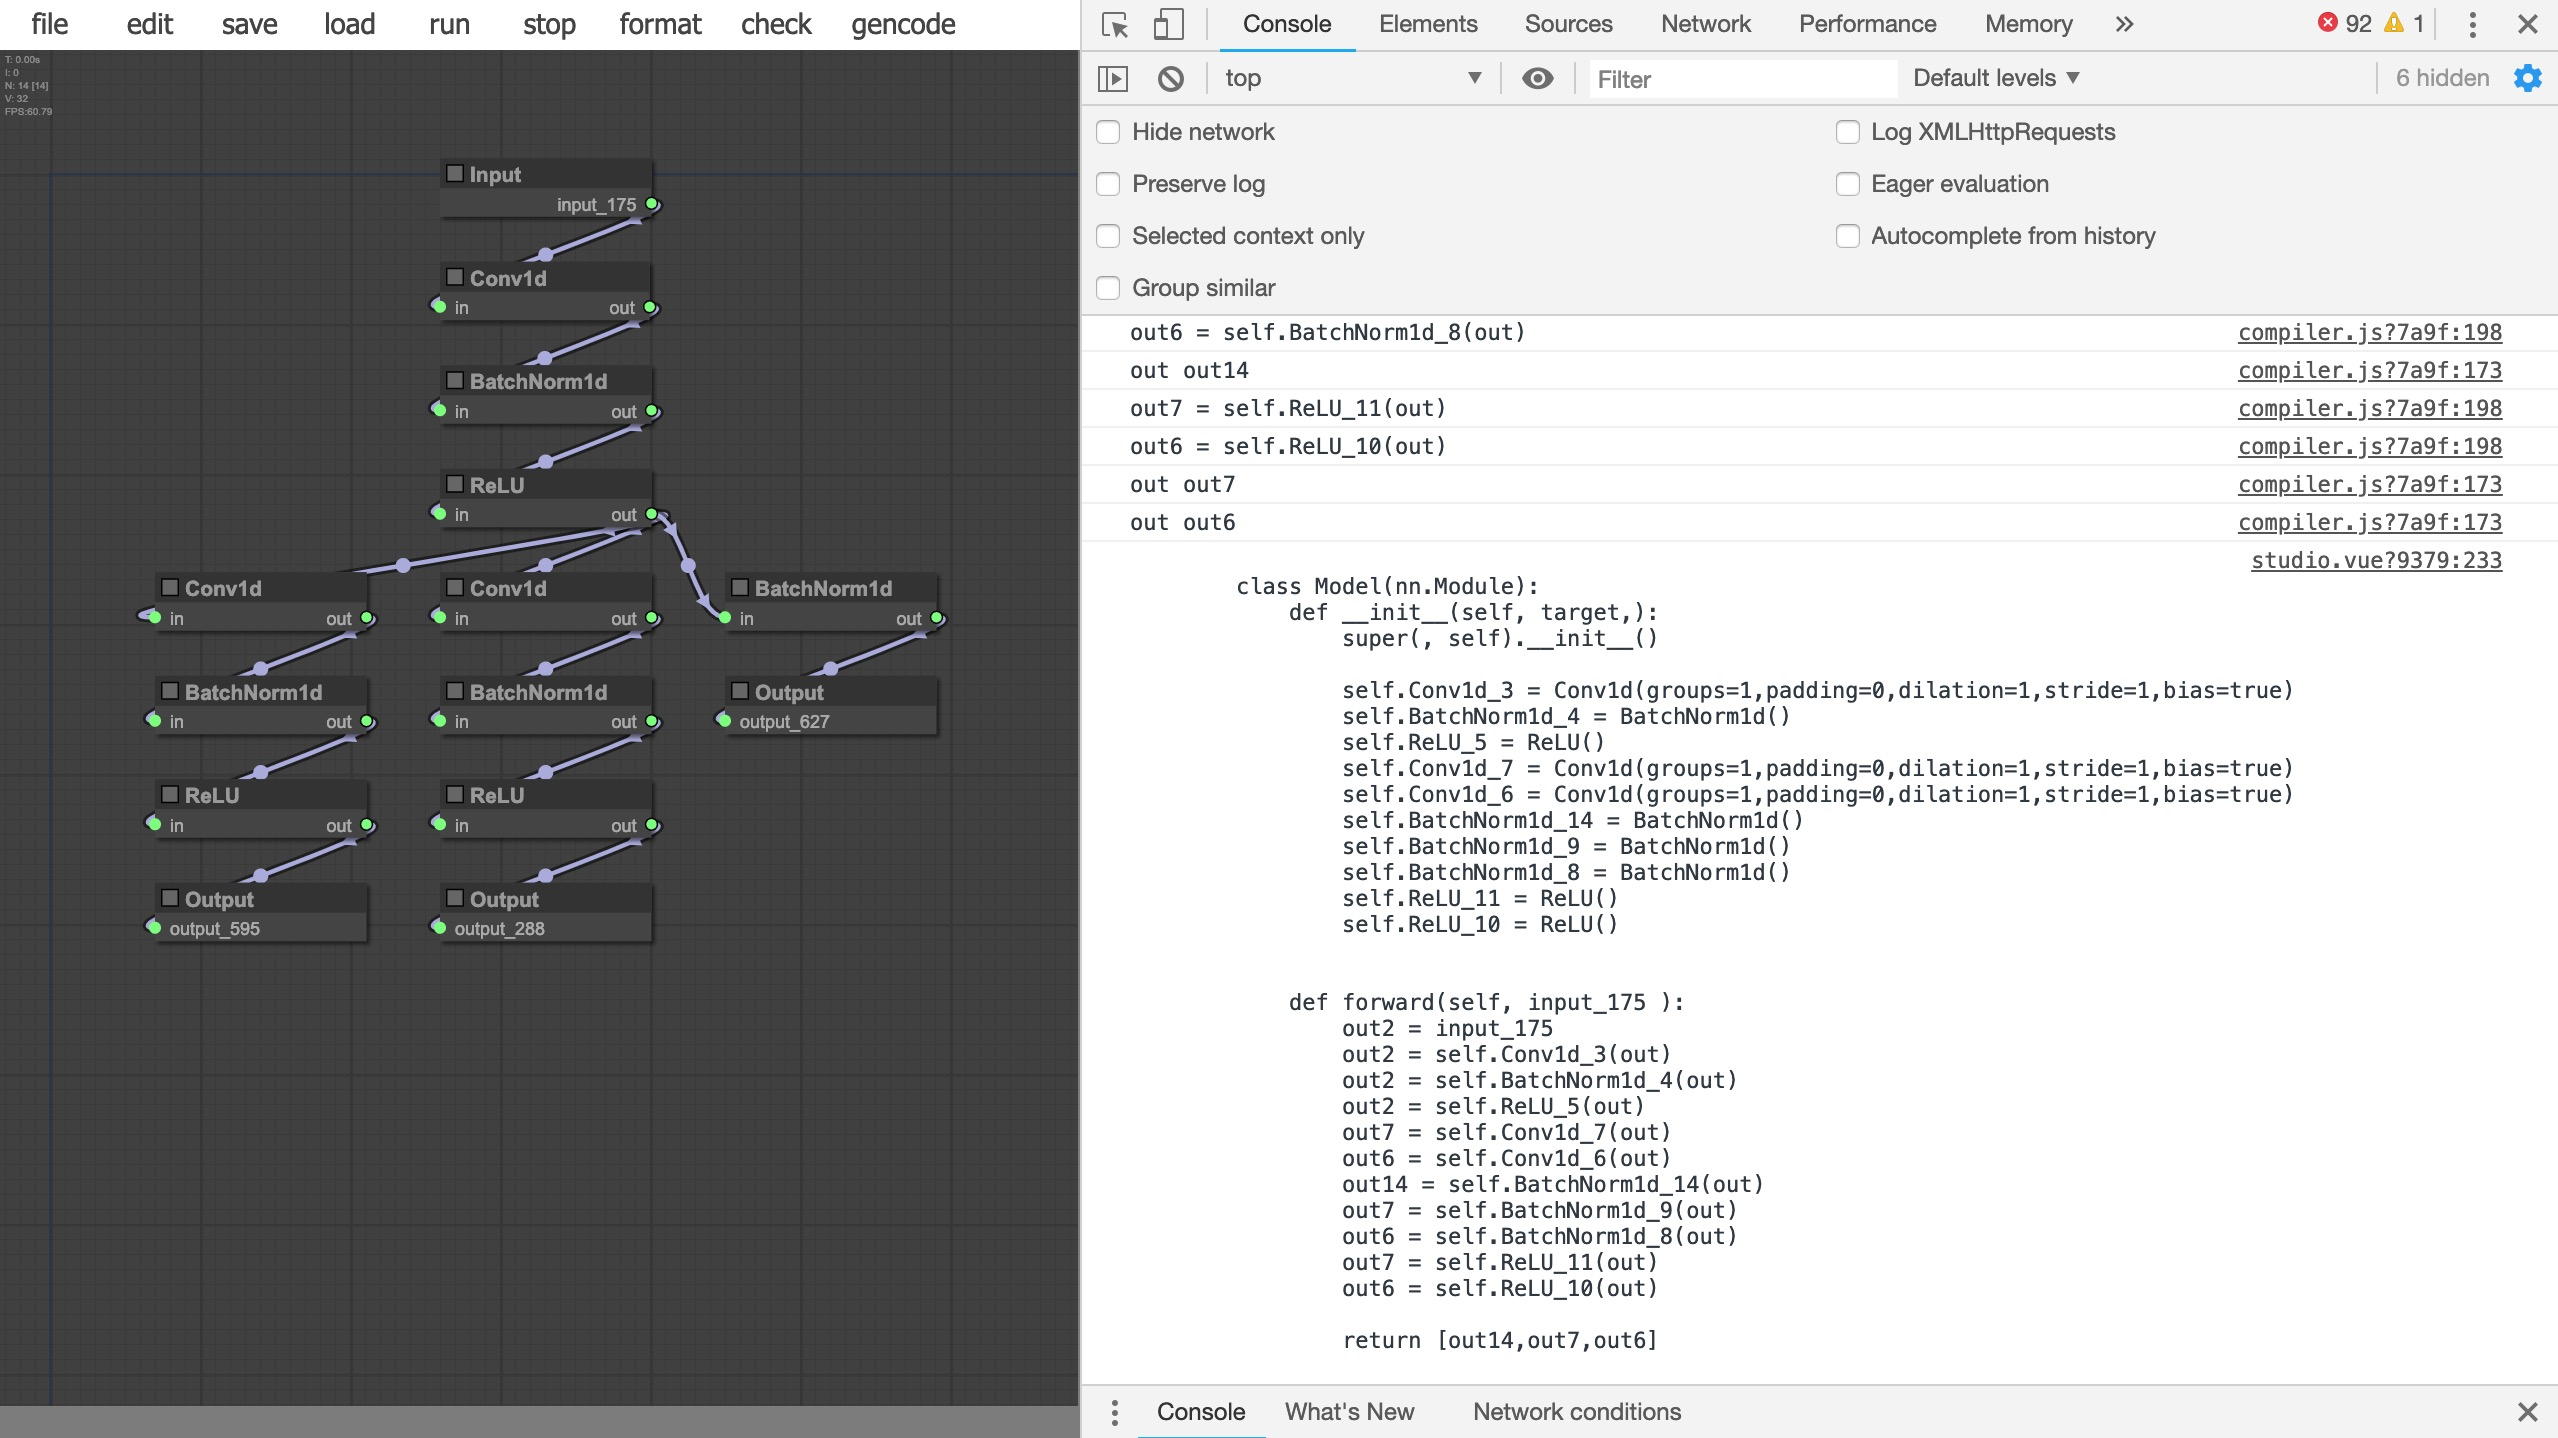
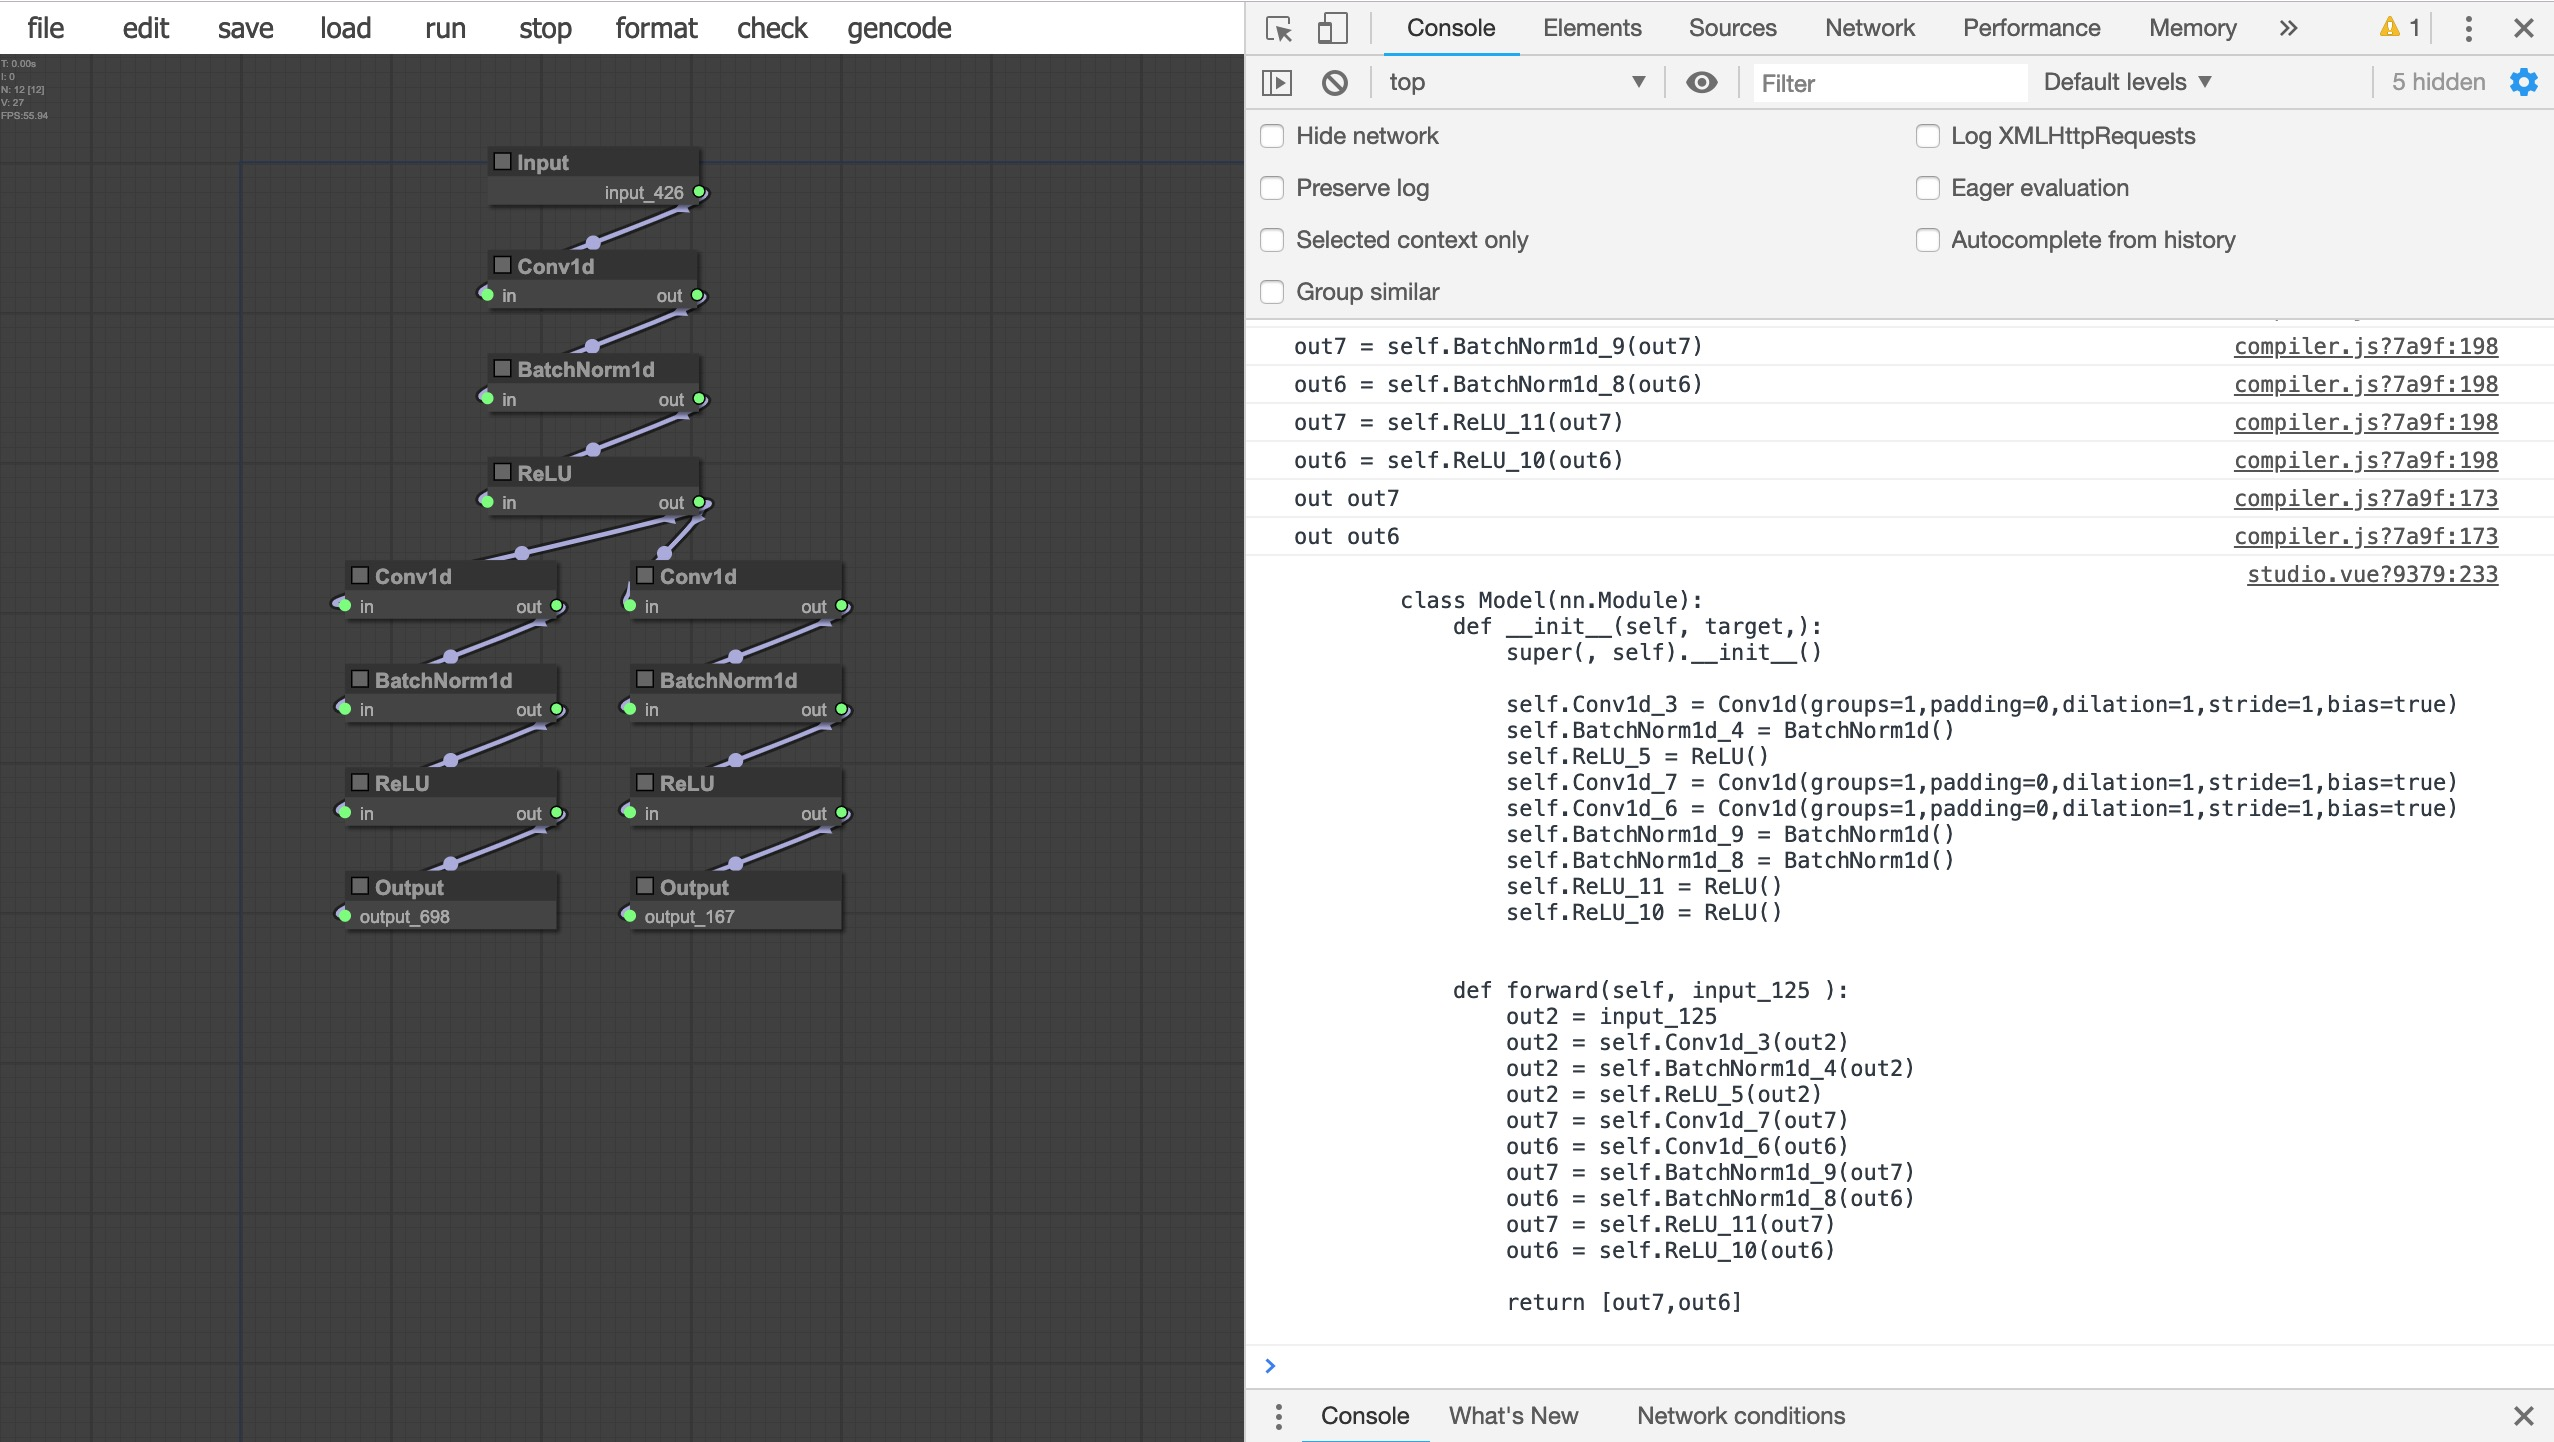
fix bug (forward)

diff --git a/src/assets/template/compiler.js b/src/assets/template/compiler.js
@@ -193,7 +193,7 @@ function TemplateRender(graph,option){
           new_out_name = curInputNames[0]
       }
 
-      forwardStr = new_out_name + ' = self.'+ prefix+ GraphNodesMap[id]['name']+'('+out_name+')'
+      forwardStr = new_out_name + ' = self.'+ prefix+ GraphNodesMap[id]['name']+'('+new_out_name+')'
       record_node_output_name[id] = new_out_name
       console.log(forwardStr)
       forwardStrs.push(forwardStr)
